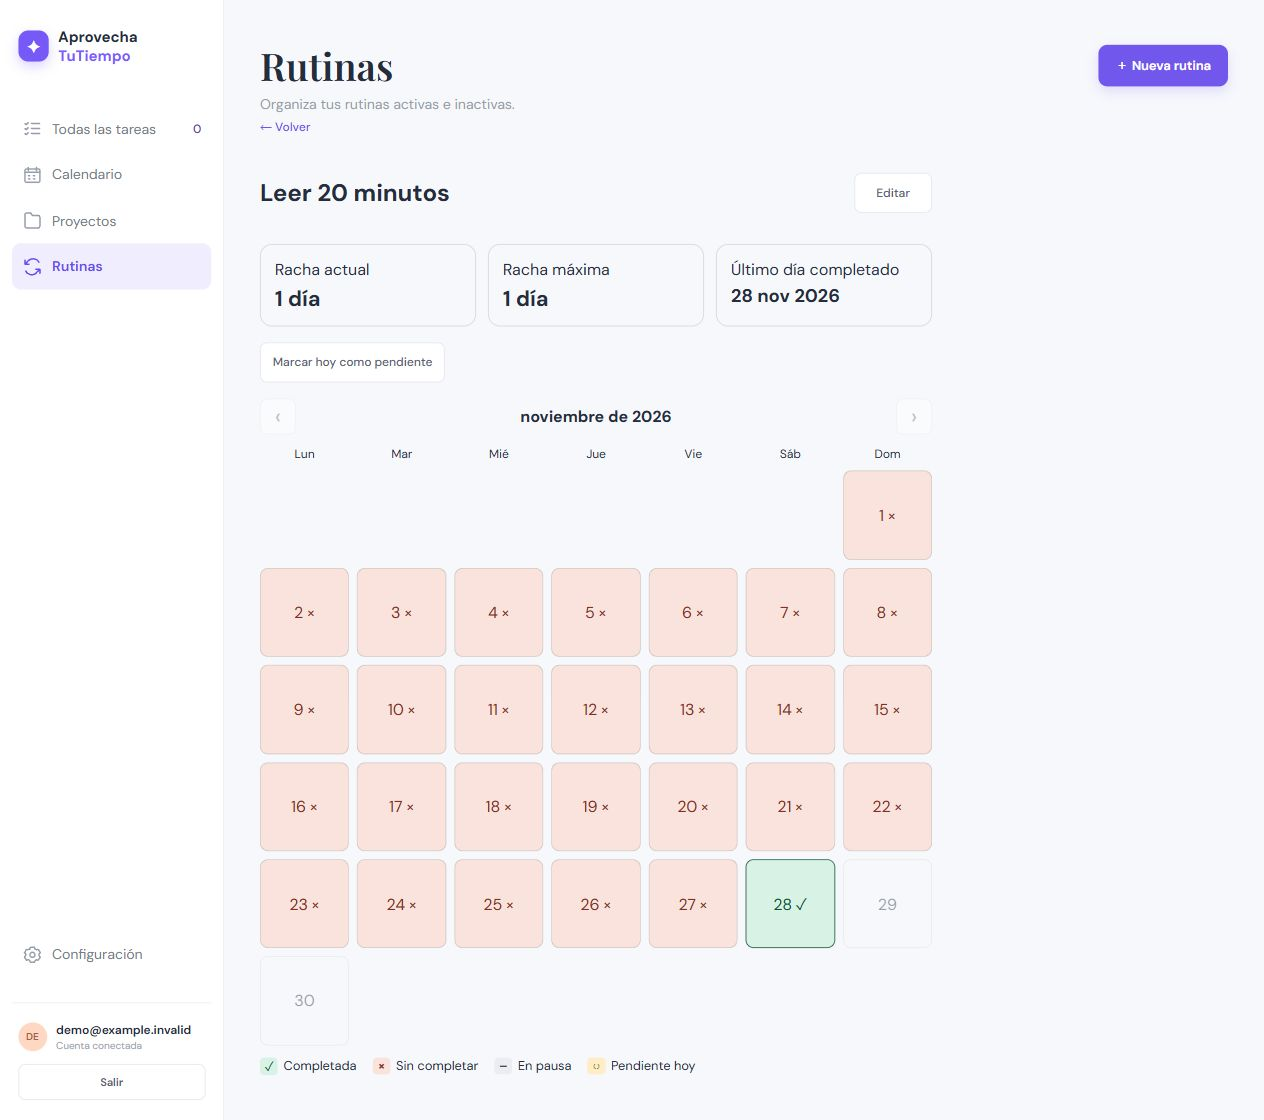
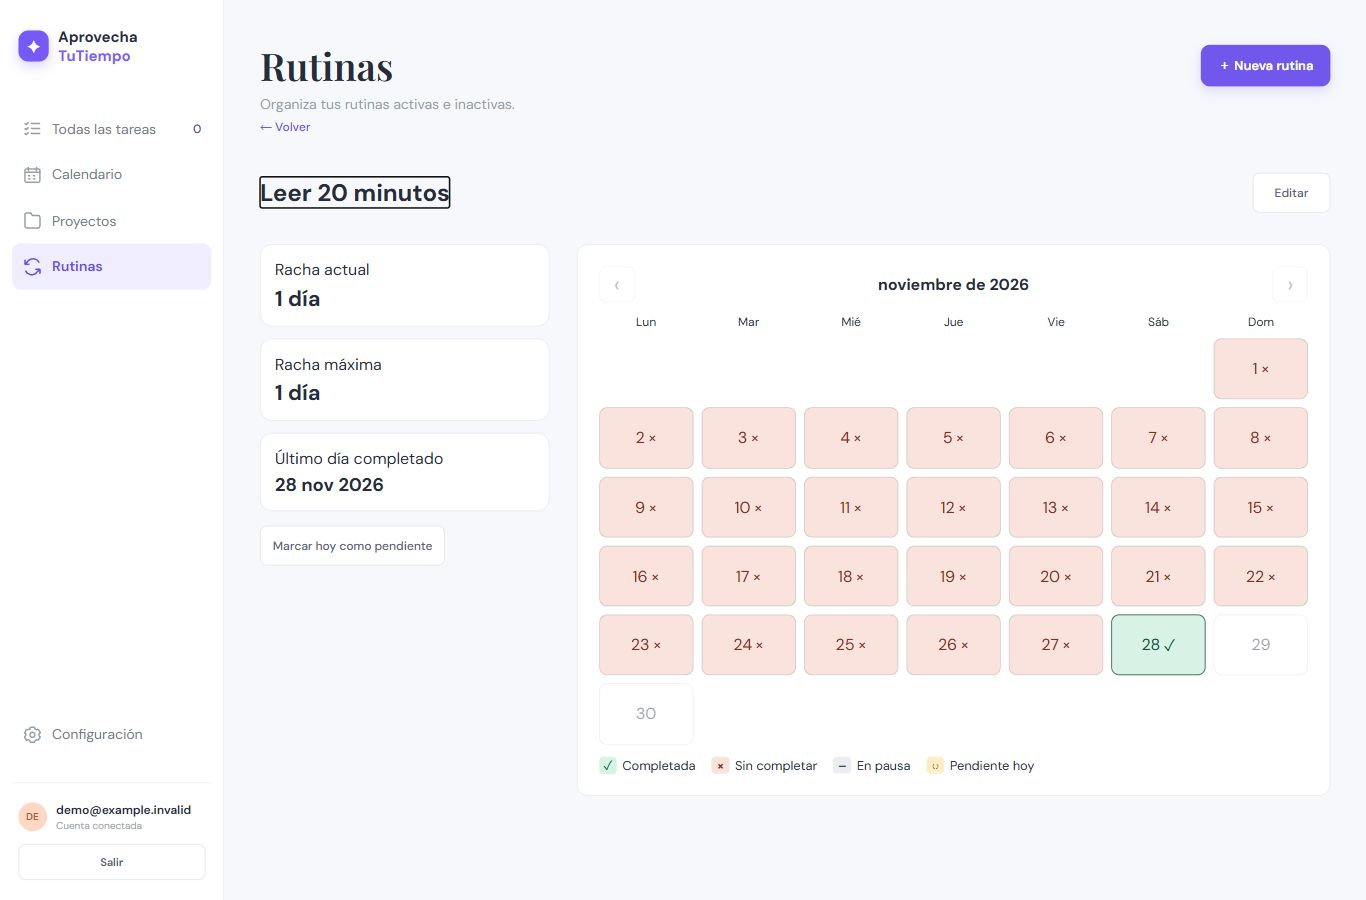
Use the available width for routine details (#38)

diff --git a/frontend/src/components/RoutineDetail.tsx b/frontend/src/components/RoutineDetail.tsx
@@ -90,48 +90,52 @@ export default function RoutineDetail({ session, routine, today, weekStart, busy
       <h2 ref={heading} tabIndex={-1}>{routine.title}</h2>
       <button className="routine-detail-action" disabled={busy} onClick={onEdit}>Editar</button>
     </div>
-    <dl className="routine-detail-stats">
-      <div><dt>Racha actual</dt><dd>{routine.current_streak} {routine.current_streak === 1 ? 'día' : 'días'}</dd></div>
-      <div><dt>Racha máxima</dt><dd>{routine.max_streak} {routine.max_streak === 1 ? 'día' : 'días'}</dd></div>
-      <div className="routine-detail-last-completion">
-        <dt>Último día completado</dt>
-        <dd>{lastCompleted ? <time dateTime={lastCompleted}>{summaryDateFormat.format(new Date(lastCompleted))}</time>
-          : history ? 'Aún sin completados' : error ? 'No disponible' : 'Cargando…'}</dd>
+    <div className="routine-detail-layout">
+      <div className="routine-detail-summary">
+        <dl className="routine-detail-stats">
+          <div><dt>Racha actual</dt><dd>{routine.current_streak} {routine.current_streak === 1 ? 'día' : 'días'}</dd></div>
+          <div><dt>Racha máxima</dt><dd>{routine.max_streak} {routine.max_streak === 1 ? 'día' : 'días'}</dd></div>
+          <div className="routine-detail-last-completion">
+            <dt>Último día completado</dt>
+            <dd>{lastCompleted ? <time dateTime={lastCompleted}>{summaryDateFormat.format(new Date(lastCompleted))}</time>
+              : history ? 'Aún sin completados' : error ? 'No disponible' : 'Cargando…'}</dd>
+          </div>
+        </dl>
+        {routine.due_today && <button className={routine.completed_today ? 'routine-detail-action' : 'routine-detail-action primary'} disabled={busy} onClick={onComplete}>
+          {routine.completed_today ? 'Marcar hoy como pendiente' : 'Completar hoy'}
+        </button>}
       </div>
-    </dl>
-    {routine.due_today && <button className={routine.completed_today ? 'routine-detail-action' : 'routine-detail-action primary'} disabled={busy} onClick={onComplete}>
-      {routine.completed_today ? 'Marcar hoy como pendiente' : 'Completar hoy'}
-    </button>}
-    {error && <div className="routine-load-state" role="alert"><p>No se pudo cargar el historial.</p><button onClick={() => setRetry(value => value + 1)}>Reintentar</button></div>}
-    {!history && !error && <p role="status">{slow ? 'La conexión está tardando más de lo habitual' : 'Cargando historial…'}</p>}
-    {history && <>
-      {!first && <p>Esta rutina aún no tiene historial.</p>}
-      {first && first > today && <p>Empieza el {formatDay(first)}.</p>}
-      <div className="routine-history">
-        <div className="routine-history-nav">
-          <button aria-label="Mes anterior" disabled={month <= firstMonth} onClick={() => shift(-1)}>‹</button>
-          <h3 aria-live="polite">{monthFormat.format(monthStart)}</h3>
-          <button aria-label="Mes siguiente" disabled={month >= currentMonth} onClick={() => shift(1)}>›</button>
-        </div>
-        <div className="routine-history-grid" role="group" aria-label="Historial mensual">
-          {labels.map(label => <span className="routine-history-weekday" key={label}>{label}</span>)}
-          {Array.from({ length: blanks }, (_, index) => <span key={'empty-' + index} aria-hidden="true" />)}
-          {Array.from({ length: monthEnd.getUTCDate() }, (_, index) => {
-            const day = index + 1
-            const date = month + '-' + String(day).padStart(2, '0')
-            const status = dayStatus(date, today, routine, history, completed, first)
-            if (!status) return <span key={date} className="routine-history-day" aria-label={formatDay(date)}>{day}</span>
-            return <button key={date} className={'routine-history-day ' + status} aria-label={formatDay(date) + ', ' + statuses[status].label}
-              aria-current={date === today ? 'date' : undefined} aria-pressed={date === selected} onClick={() => setSelected(date)}>
-              {day}<span aria-hidden="true">{statuses[status].symbol}</span>
-            </button>
-          })}
-        </div>
-        <ul className="routine-history-legend" aria-label="Estados del historial">
-          {Object.entries(statuses).map(([key, status]) => <li key={key}><span className={key} aria-hidden="true">{status.symbol}</span>{status.label}</li>)}
-        </ul>
-        {selected && selectedStatus && <p role="status">{formatDay(selected)} · {statuses[selectedStatus].label}</p>}
-      </div>
-    </>}
+      <section className="routine-history" aria-label="Historial de la rutina">
+        {error && <div className="routine-load-state" role="alert"><p>No se pudo cargar el historial.</p><button onClick={() => setRetry(value => value + 1)}>Reintentar</button></div>}
+        {!history && !error && <p role="status">{slow ? 'La conexión está tardando más de lo habitual' : 'Cargando historial…'}</p>}
+        {history && <>
+          {!first && <p>Esta rutina aún no tiene historial.</p>}
+          {first && first > today && <p>Empieza el {formatDay(first)}.</p>}
+          <div className="routine-history-nav">
+            <button aria-label="Mes anterior" disabled={month <= firstMonth} onClick={() => shift(-1)}>‹</button>
+            <h3 aria-live="polite">{monthFormat.format(monthStart)}</h3>
+            <button aria-label="Mes siguiente" disabled={month >= currentMonth} onClick={() => shift(1)}>›</button>
+          </div>
+          <div className="routine-history-grid" role="group" aria-label="Historial mensual">
+            {labels.map(label => <span className="routine-history-weekday" key={label}>{label}</span>)}
+            {Array.from({ length: blanks }, (_, index) => <span key={'empty-' + index} aria-hidden="true" />)}
+            {Array.from({ length: monthEnd.getUTCDate() }, (_, index) => {
+              const day = index + 1
+              const date = month + '-' + String(day).padStart(2, '0')
+              const status = dayStatus(date, today, routine, history, completed, first)
+              if (!status) return <span key={date} className="routine-history-day" aria-label={formatDay(date)}>{day}</span>
+              return <button key={date} className={'routine-history-day ' + status} aria-label={formatDay(date) + ', ' + statuses[status].label}
+                aria-current={date === today ? 'date' : undefined} aria-pressed={date === selected} onClick={() => setSelected(date)}>
+                {day}<span aria-hidden="true">{statuses[status].symbol}</span>
+              </button>
+            })}
+          </div>
+          <ul className="routine-history-legend" aria-label="Estados del historial">
+            {Object.entries(statuses).map(([key, status]) => <li key={key}><span className={key} aria-hidden="true">{status.symbol}</span>{status.label}</li>)}
+          </ul>
+          {selected && selectedStatus && <p role="status">{formatDay(selected)} · {statuses[selectedStatus].label}</p>}
+        </>}
+      </section>
+    </div>
   </section>
 }

diff --git a/frontend/src/styles.css b/frontend/src/styles.css
@@ -1314,17 +1314,26 @@ button.work-card:focus-visible { outline: 2px solid #5135b8; outline-offset: 2px
 .plan-node.branch-root { outline:2px solid #7c5cff; outline-offset:4px; }
 @media(max-width:700px) { .plan-focus-summary { width:100%; min-width:0; align-items:flex-start; flex-wrap:wrap; } }
 .routine-detail-page {
+  container: routine-detail / inline-size;
   display: grid;
   justify-items: start;
   gap: 1rem;
 }
 
 .routine-detail {
-  width: min(100%, 42rem);
+  width: 100%;
   display: grid;
-  justify-items: start;
   gap: 1rem;
 }
+
+.routine-detail-layout {
+  display: grid;
+  grid-template-columns: minmax(0, 1fr);
+  align-items: start;
+  gap: clamp(1rem, 2.5cqi, 2rem);
+}
+
+.routine-detail-summary { display: grid; justify-items: start; gap: .875rem; }
 
 .routine-detail-heading, .routine-history-nav {
   display: flex;
@@ -1353,11 +1362,12 @@ button.work-card:focus-visible { outline: 2px solid #5135b8; outline-offset: 2px
 }
 .routine-detail-stats dd { margin: .25rem 0 0; font-size: 1.35rem; font-weight: 700; }
 .routine-detail-last-completion > dd { font-size: 1.15rem; }
-@media (max-width: 760px) {
+@container routine-detail (max-width: 34rem) {
   .routine-detail-stats { grid-template-columns: repeat(2, minmax(0, 1fr)); }
   .routine-detail-last-completion { grid-column: 1 / -1; }
 }
-.routine-history { width: 100%; display: grid; gap: .75rem; }
+.routine-history { min-width: 0; display: grid; gap: .75rem; }
+.routine-history > p { margin: 0; }
 .routine-history-nav h3 { margin: 0; font-size: 1rem; text-align: center; }
 .routine-history-nav button { flex: none; }
 .routine-history-grid {
@@ -1368,7 +1378,9 @@ button.work-card:focus-visible { outline: 2px solid #5135b8; outline-offset: 2px
 .routine-history-weekday { text-align: center; font-size: .75rem; }
 .routine-history-day {
   display: flex;
+  inline-size: 100%;
   aspect-ratio: 1;
+  max-block-size: 5rem;
   justify-content: center;
   align-items: center;
   gap: .2em;
@@ -1390,3 +1402,10 @@ button.routine-history-day:hover { border-color: #7050aa; }
 .routine-history-legend { display: flex; flex-wrap: wrap; gap: .5rem 1rem; list-style: none; margin: 0; padding: 0; font-size: .8rem; }
 .routine-history-legend li { display: flex; align-items: center; gap: .35rem; }
 .routine-history-legend span { text-align: center; min-width: 1.4em; border-radius: .25rem; font-weight: 700; }
+@container routine-detail (min-width: 48rem) {
+  .routine-detail-layout { grid-template-columns: minmax(14rem, 1fr) minmax(0, 2.6fr); }
+  .routine-detail-stats { grid-template-columns: 1fr; }
+  .routine-detail-stats > div, .routine-history { background: #fff; border: 1px solid #e6e9ef; border-radius: .75rem; }
+  .routine-history { padding: clamp(1rem, 2cqi, 1.5rem); }
+  .routine-history-day { aspect-ratio: auto; block-size: clamp(3.25rem, 5.7cqi, 5rem); }
+}
